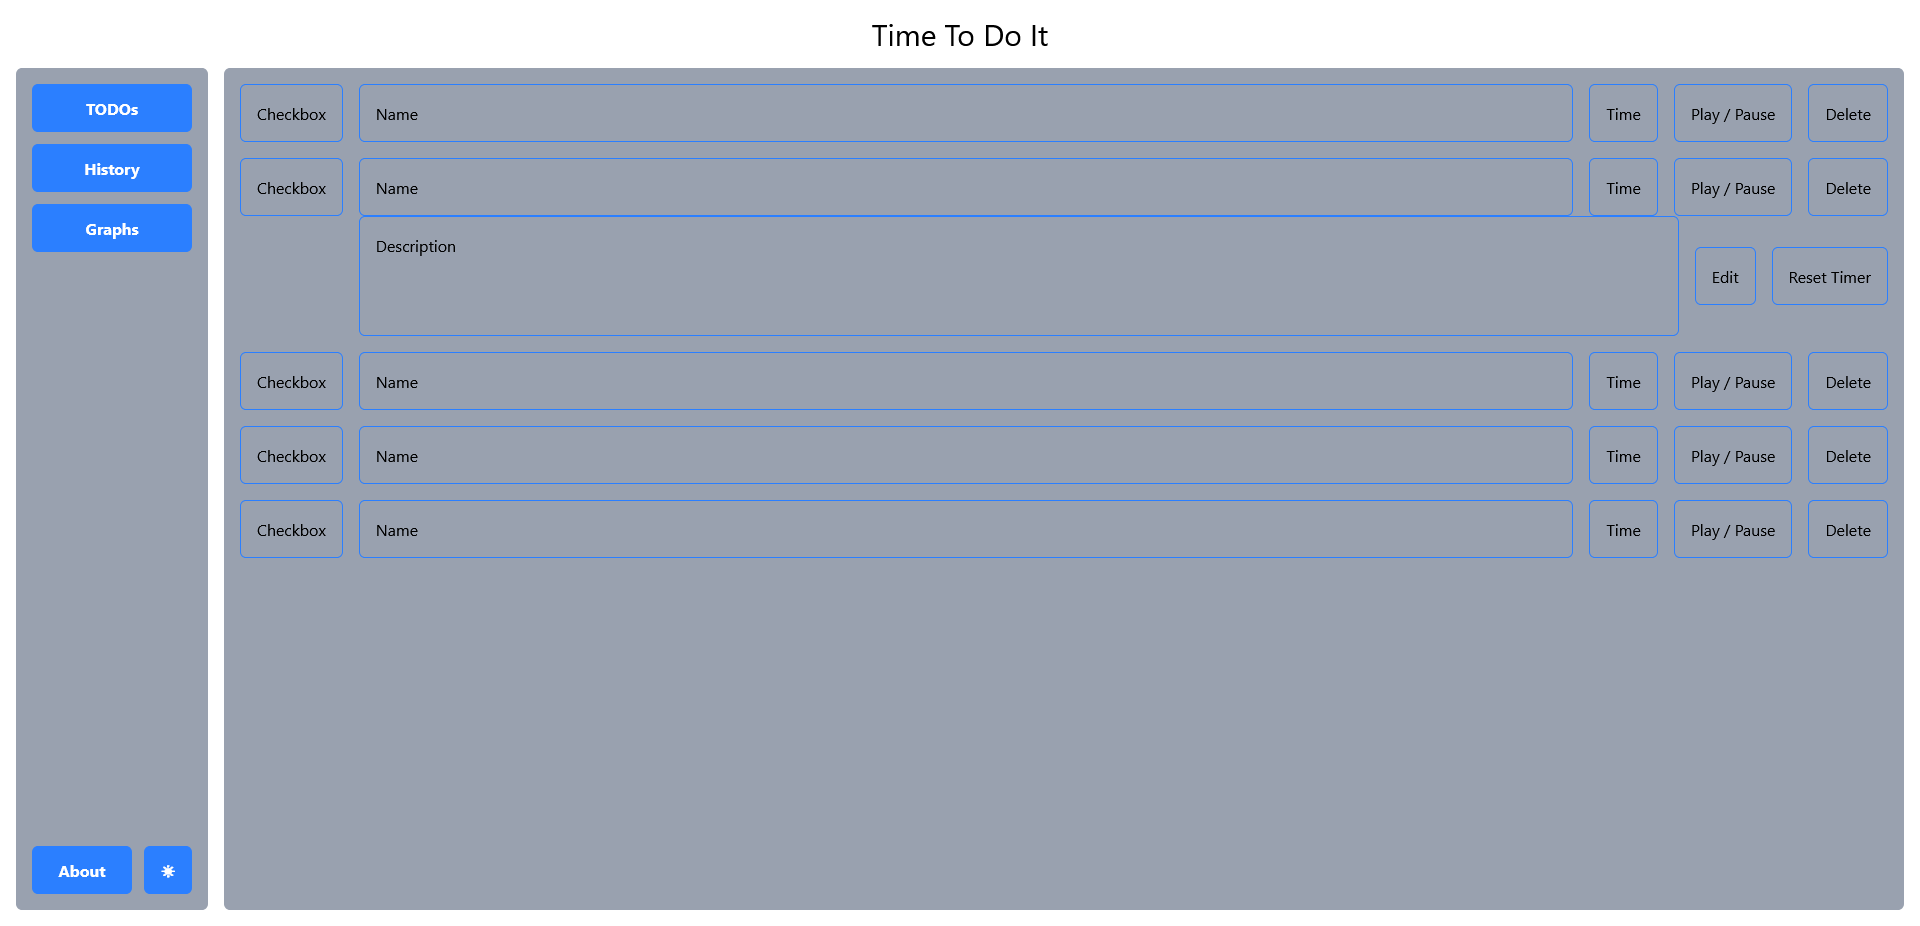
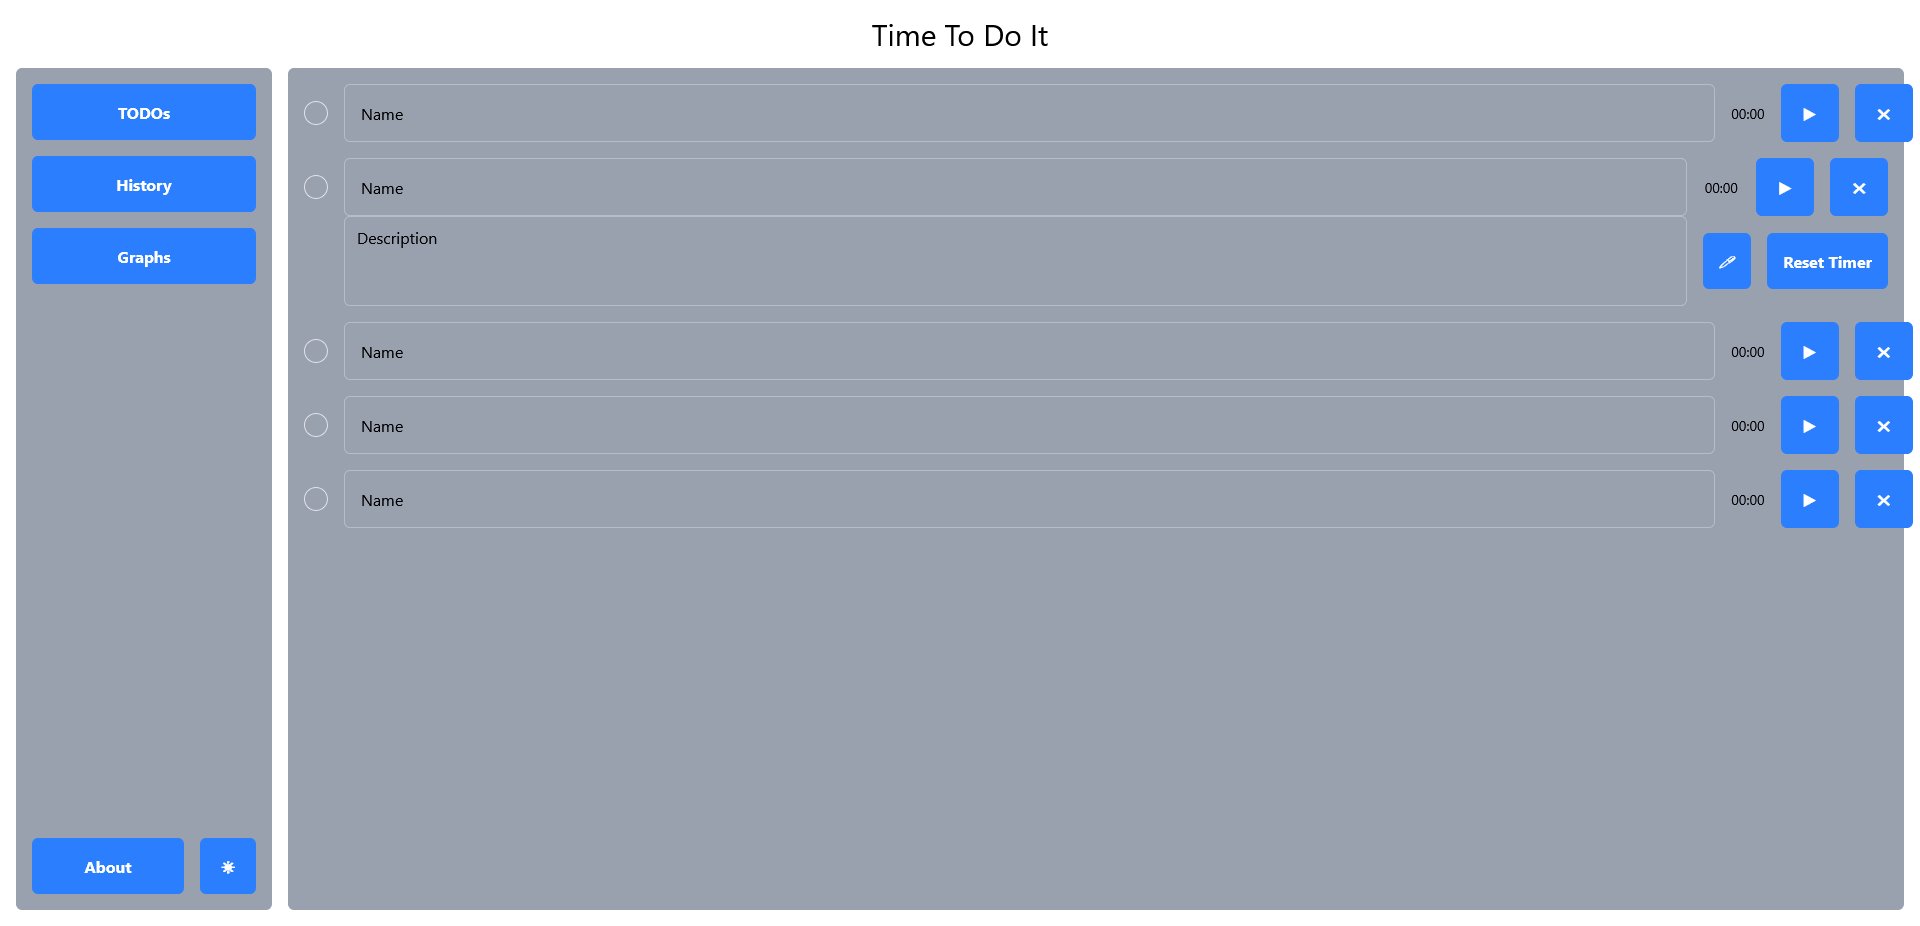
refined to-do-list-element styling, still far from good

diff --git a/src/components/to-do-list-element.component.tsx b/src/components/to-do-list-element.component.tsx
@@ -1,47 +1,71 @@
+import { Button } from "./button.component";
+
 interface ToDoListElementProps {
     selected?: boolean;
 }
 
 export function ToDoListElement({ selected }: ToDoListElementProps) {
     return (
-        <div>
-            <div>
-                <div
-                    className={`flex flex-row gap-4 ${selected ? "" : "mb-4"}`}
-                >
-                    <div className="rounded-md border border-blue-500 p-4">
-                        Checkbox
-                    </div>
-                    <div className="rounded-md grow border border-blue-500 p-4">
-                        Name
-                    </div>
-                    <div className="rounded-md border border-blue-500 p-4">
-                        Time
-                    </div>
-                    <div className="rounded-md border border-blue-500 p-4">
-                        Play / Pause
-                    </div>
-                    <div className="rounded-md border border-blue-500 p-4">
-                        Delete
-                    </div>
-                </div>
-                {selected && (
-                    <div className="flex flex-row gap-4 mb-4 h-30 items-center">
-                        <div className="rounded-md border border-blue-500 p-4 invisible">
-                            Checkbox
-                        </div>
-                        <div className="rounded-md border border-blue-500 p-4 grow h-30">
-                            Description
-                        </div>
-                        <div className="rounded-md border border-blue-500 p-4 h-fit">
-                            Edit
-                        </div>
-                        <div className="rounded-md border border-blue-500 p-4 h-fit">
-                            Reset Timer
-                        </div>
-                    </div>
-                )}
+        <div className="grid grid-cols-[auto_1fr_auto] gap-x-4 items-center mb-4">
+            <input
+                type="checkbox"
+                className="
+					w-6 h-6
+					rounded-full
+					border border-white/70
+					bg-transparent
+					appearance-none
+					checked:bg-white/70
+					checked:border-white
+					flex items-center justify-center
+					cursor-pointer
+					transition-colors
+				"
+            />
+
+            <div
+                className="bg-transparent
+                        border border-white/30
+                        rounded-md
+                        p-4 w-full"
+            >
+                Name
             </div>
+
+            <div className="flex items-center gap-x-4 h-full">
+                <div className="text-sm grow text-center">00:00</div>
+
+                <Button className="p-4 h-full aspect-square" label="▶" />
+                <Button className="p-4 h-full aspect-square" label="✖" />
+            </div>
+
+            {selected && (
+                <>
+                    <div />
+
+                    <textarea
+                        defaultValue="Description"
+                        className="
+							bg-transparent
+							border border-white/30
+							rounded-md
+							px-3 py-2
+							placeholder-white/50
+							min-h-[70px]
+							w-full
+							resize-none
+						"
+                        rows={3}
+                        readOnly
+                        disabled
+                    />
+
+                    <div className="flex gap-4">
+                        <Button className="p-4 aspect-square" label="🖊" />
+                        <Button className="w-full p-4" label="Reset Timer" />
+                    </div>
+                </>
+            )}
         </div>
     );
 }

diff --git a/src/components/sidebar.component.tsx b/src/components/sidebar.component.tsx
@@ -2,15 +2,15 @@ import { Button } from "./button.component";
 
 export function Sidebar() {
     return (
-        <div className="flex flex-col justify-between w-48 p-4 rounded-md bg-gray-400 ml-4 mb-4">
-            <div className="space-y-3">
-                <Button className="w-full h-12" label="TODOs" />
-                <Button className="w-full h-12" label="History" />
-                <Button className="w-full h-12" label="Graphs" />
+        <div className="flex flex-col justify-between w-3xs p-4 rounded-md bg-gray-400 ml-4 mb-4">
+            <div className="space-y-4">
+                <Button className="w-full p-4" label="TODOs" />
+                <Button className="w-full p-4" label="History" />
+                <Button className="w-full p-4" label="Graphs" />
             </div>
-            <div className="flex gap-3 mt-3">
-                <Button className="w-full h-12" label="About" />
-                <Button className="h-12 aspect-square" label="☀" />
+            <div className="flex gap-4">
+                <Button className="w-full p-4" label="About" />
+                <Button className="p-4 aspect-square" label="☀" />
             </div>
         </div>
     );

diff --git a/src/components/button.component.tsx b/src/components/button.component.tsx
@@ -7,12 +7,12 @@ interface ButtonProps {
 export function Button({ callback, label, className }: ButtonProps) {
     return (
         <button
-            className={`bg-blue-500 hover:bg-blue-700 text-white font-bold rounded-md transition ${
+            className={`bg-blue-500 hover:bg-blue-700 text-white font-bold rounded-md transition items-center ${
                 className || ""
             }`}
             onClick={callback}
         >
-            {label}
+            <p className="text-center">{label}</p>
         </button>
     );
 }
